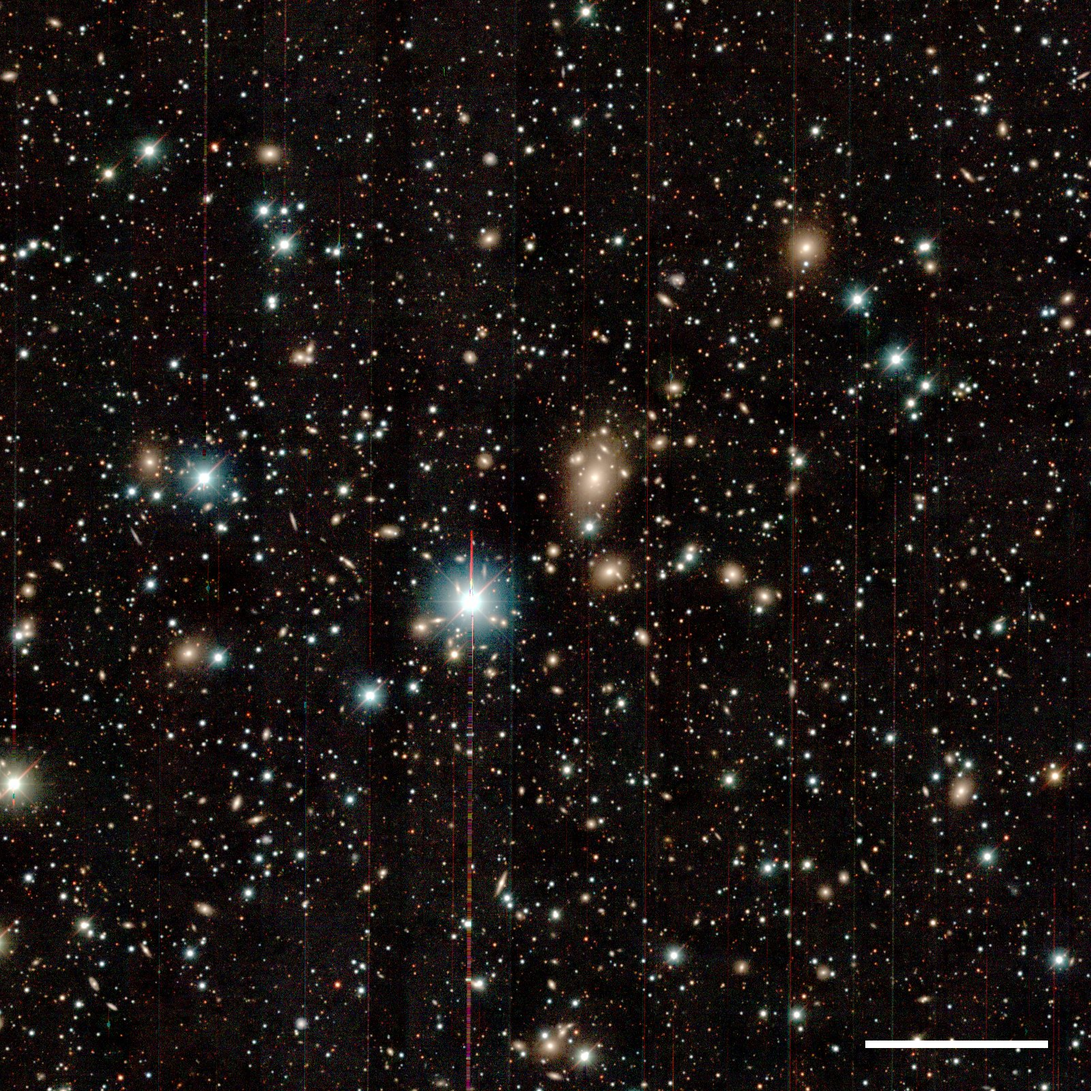
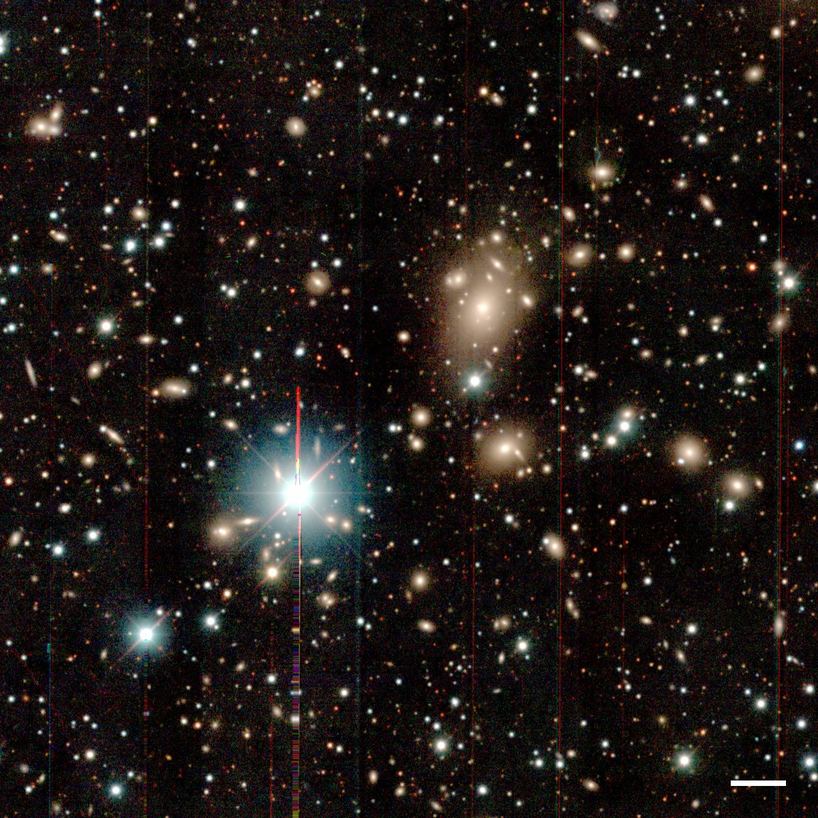
Update KS4 atlas pages

diff --git a/clusters.html b/clusters.html
@@ -272,38 +272,38 @@
     <p class="kicker"><a href="index.html">Home</a> / <a href="gallery.html">Gallery</a> / Galaxy clusters</p>
     <h1>Nearby galaxy clusters in KS4</h1>
     <p class="arp-intro">
-      This gallery shows nearby galaxy clusters south of declination −28° that fall inside the footprint of KS4 Data Release 1. Each image is centred on the brightest cluster galaxy or on the cluster position in SIMBAD. Click an image to see it larger. The name under each image opens the KS4 <i>BVI</i> colour HiPS in <a href="https://aladin.cds.unistra.fr/AladinLite/">Aladin Lite</a> so you can pan and zoom around it. The white bar in the lower-right corner of each image is five arcminutes.
+      This gallery shows nearby galaxy clusters south of declination −28° that fall inside the footprint of KS4 Data Release 1. Each image is centred on the brightest cluster galaxy or on the cluster position in SIMBAD. Click an image to see it larger. The name under each image opens the KS4 <i>BVI</i> colour HiPS in <a href="https://aladin.cds.unistra.fr/AladinLite/">Aladin Lite</a> so you can pan and zoom around it. The white bar in the lower-right corner of each image is one arcminute.
     </p>
     <p class="arp-meta">7 of the 11 clusters south of −28° are inside the KS4 DR1 footprint.</p>
 
     <div class="arp-grid">
       <figure>
-        <a class="thumb" href="assets/clusters/antlia.jpg"><img src="assets/clusters/antlia_t.jpg" width="300" height="300" loading="lazy" alt="Antlia cluster (NGC 3268) in KS4 BVI colour, 40 arcmin field, scale bar 5 arcmin"></a>
-        <figcaption><a href="https://aladin.cds.unistra.fr/AladinLite/?target=157.50275%20-35.32547&fov=1.333&survey=SNU%2FP%2FKS4%2FDR1%2FcolorBVI">Antlia cluster (NGC 3268)</a></figcaption>
+        <a class="thumb" href="assets/clusters/antlia.jpg"><img src="assets/clusters/antlia_t.jpg" width="300" height="300" loading="lazy" alt="Antlia cluster (NGC 3268) in KS4 BVI colour, 15 arcmin field, scale bar 1 arcmin"></a>
+        <figcaption><a href="https://aladin.cds.unistra.fr/AladinLite/?target=157.50275%20-35.32547&fov=0.500&survey=SNU%2FP%2FKS4%2FDR1%2FcolorBVI">Antlia cluster (NGC 3268)</a></figcaption>
       </figure>
       <figure>
-        <a class="thumb" href="assets/clusters/centaurus.jpg"><img src="assets/clusters/centaurus_t.jpg" width="300" height="300" loading="lazy" alt="Centaurus cluster (Abell 3526) in KS4 BVI colour, 40 arcmin field, scale bar 5 arcmin"></a>
-        <figcaption><a href="https://aladin.cds.unistra.fr/AladinLite/?target=192.20521%20-41.31083&fov=1.333&survey=SNU%2FP%2FKS4%2FDR1%2FcolorBVI">Centaurus cluster (Abell 3526)</a></figcaption>
+        <a class="thumb" href="assets/clusters/centaurus.jpg"><img src="assets/clusters/centaurus_t.jpg" width="300" height="300" loading="lazy" alt="Centaurus cluster (Abell 3526) in KS4 BVI colour, 15 arcmin field, scale bar 1 arcmin"></a>
+        <figcaption><a href="https://aladin.cds.unistra.fr/AladinLite/?target=192.20521%20-41.31083&fov=0.500&survey=SNU%2FP%2FKS4%2FDR1%2FcolorBVI">Centaurus cluster (Abell 3526)</a></figcaption>
       </figure>
       <figure>
-        <a class="thumb" href="assets/clusters/a3266.jpg"><img src="assets/clusters/a3266_t.jpg" width="300" height="300" loading="lazy" alt="Abell 3266 in KS4 BVI colour, 30 arcmin field, scale bar 5 arcmin"></a>
-        <figcaption><a href="https://aladin.cds.unistra.fr/AladinLite/?target=67.85980%20-61.42140&fov=1.000&survey=SNU%2FP%2FKS4%2FDR1%2FcolorBVI">Abell 3266</a></figcaption>
+        <a class="thumb" href="assets/clusters/a3266.jpg"><img src="assets/clusters/a3266_t.jpg" width="300" height="300" loading="lazy" alt="Abell 3266 in KS4 BVI colour, 15 arcmin field, scale bar 1 arcmin"></a>
+        <figcaption><a href="https://aladin.cds.unistra.fr/AladinLite/?target=67.85980%20-61.42140&fov=0.500&survey=SNU%2FP%2FKS4%2FDR1%2FcolorBVI">Abell 3266</a></figcaption>
       </figure>
       <figure>
-        <a class="thumb" href="assets/clusters/a3376.jpg"><img src="assets/clusters/a3376_t.jpg" width="300" height="300" loading="lazy" alt="Abell 3376 in KS4 BVI colour, 30 arcmin field, scale bar 5 arcmin"></a>
-        <figcaption><a href="https://aladin.cds.unistra.fr/AladinLite/?target=90.35420%20-39.99750&fov=1.000&survey=SNU%2FP%2FKS4%2FDR1%2FcolorBVI">Abell 3376</a></figcaption>
+        <a class="thumb" href="assets/clusters/a3376.jpg"><img src="assets/clusters/a3376_t.jpg" width="300" height="300" loading="lazy" alt="Abell 3376 in KS4 BVI colour, 15 arcmin field, scale bar 1 arcmin"></a>
+        <figcaption><a href="https://aladin.cds.unistra.fr/AladinLite/?target=90.35420%20-39.99750&fov=0.500&survey=SNU%2FP%2FKS4%2FDR1%2FcolorBVI">Abell 3376</a></figcaption>
       </figure>
       <figure>
-        <a class="thumb" href="assets/clusters/a3558.jpg"><img src="assets/clusters/a3558_t.jpg" width="300" height="300" loading="lazy" alt="Abell 3558 (Shapley Supercluster) in KS4 BVI colour, 30 arcmin field, scale bar 5 arcmin"></a>
-        <figcaption><a href="https://aladin.cds.unistra.fr/AladinLite/?target=202.01350%20-31.52650&fov=1.000&survey=SNU%2FP%2FKS4%2FDR1%2FcolorBVI">Abell 3558 (Shapley Supercluster)</a></figcaption>
+        <a class="thumb" href="assets/clusters/a3558.jpg"><img src="assets/clusters/a3558_t.jpg" width="300" height="300" loading="lazy" alt="Abell 3558 (Shapley Supercluster) in KS4 BVI colour, 15 arcmin field, scale bar 1 arcmin"></a>
+        <figcaption><a href="https://aladin.cds.unistra.fr/AladinLite/?target=202.01350%20-31.52650&fov=0.500&survey=SNU%2FP%2FKS4%2FDR1%2FcolorBVI">Abell 3558 (Shapley Supercluster)</a></figcaption>
       </figure>
       <figure>
-        <a class="thumb" href="assets/clusters/a3571.jpg"><img src="assets/clusters/a3571_t.jpg" width="300" height="300" loading="lazy" alt="Abell 3571 in KS4 BVI colour, 30 arcmin field, scale bar 5 arcmin"></a>
-        <figcaption><a href="https://aladin.cds.unistra.fr/AladinLite/?target=206.88480%20-32.83670&fov=1.000&survey=SNU%2FP%2FKS4%2FDR1%2FcolorBVI">Abell 3571</a></figcaption>
+        <a class="thumb" href="assets/clusters/a3571.jpg"><img src="assets/clusters/a3571_t.jpg" width="300" height="300" loading="lazy" alt="Abell 3571 in KS4 BVI colour, 15 arcmin field, scale bar 1 arcmin"></a>
+        <figcaption><a href="https://aladin.cds.unistra.fr/AladinLite/?target=206.88480%20-32.83670&fov=0.500&survey=SNU%2FP%2FKS4%2FDR1%2FcolorBVI">Abell 3571</a></figcaption>
       </figure>
       <figure>
-        <a class="thumb" href="assets/clusters/a3667.jpg"><img src="assets/clusters/a3667_t.jpg" width="300" height="300" loading="lazy" alt="Abell 3667 in KS4 BVI colour, 30 arcmin field, scale bar 5 arcmin"></a>
-        <figcaption><a href="https://aladin.cds.unistra.fr/AladinLite/?target=303.14030%20-56.84060&fov=1.000&survey=SNU%2FP%2FKS4%2FDR1%2FcolorBVI">Abell 3667</a></figcaption>
+        <a class="thumb" href="assets/clusters/a3667.jpg"><img src="assets/clusters/a3667_t.jpg" width="300" height="300" loading="lazy" alt="Abell 3667 in KS4 BVI colour, 15 arcmin field, scale bar 1 arcmin"></a>
+        <figcaption><a href="https://aladin.cds.unistra.fr/AladinLite/?target=303.14030%20-56.84060&fov=0.500&survey=SNU%2FP%2FKS4%2FDR1%2FcolorBVI">Abell 3667</a></figcaption>
       </figure>
     </div>
 

diff --git a/peculiar.html b/peculiar.html
@@ -272,9 +272,9 @@
     <p class="kicker"><a href="index.html">Home</a> / <a href="gallery.html">Gallery</a> / Southern peculiar galaxies</p>
     <h1>Southern peculiar galaxies in KS4</h1>
     <p class="arp-intro">
-      This gallery shows peculiar and interacting galaxies and a few other well-known objects, such as globular clusters and planetary nebulae, that lie south of declination −28° and fall inside the footprint of KS4 Data Release 1. The order changes each time the page is opened. Click an image to see it larger. The name under each image opens the KS4 <i>BVI</i> colour HiPS in <a href="https://aladin.cds.unistra.fr/AladinLite/">Aladin Lite</a> so you can pan and zoom around it. The white bar in the lower-right corner of each image is one arcminute, or five arcminutes on fields of 25 arcminutes or more.
+      This gallery shows peculiar and interacting galaxies, nearby spiral galaxies from the <a href="https://sites.google.com/view/phangs/home">PHANGS</a>-MUSE and PHANGS-JWST samples and a few other well-known objects, such as globular clusters and planetary nebulae, that lie south of declination −28° and fall inside the footprint of KS4 Data Release 1. The order changes each time the page is opened. Click an image to see it larger. The name under each image opens the KS4 <i>BVI</i> colour HiPS in <a href="https://aladin.cds.unistra.fr/AladinLite/">Aladin Lite</a> so you can pan and zoom around it. The white bar in the lower-right corner of each image is one arcminute, or five arcminutes on fields of 25 arcminutes or more.
     </p>
-    <p class="arp-meta">12 of the 38 objects in the list are inside the KS4 DR1 footprint.</p>
+    <p class="arp-meta">13 of the 43 objects in the list are inside the KS4 DR1 footprint.</p>
 
     <div class="arp-grid" data-shuffle>
       <figure>
@@ -325,10 +325,14 @@
         <a class="thumb" href="assets/peculiar/ngc362.jpg"><img src="assets/peculiar/ngc362_t.jpg" width="300" height="300" loading="lazy" alt="NGC 362 in KS4 BVI colour, 15 arcmin field, scale bar 1 arcmin"></a>
         <figcaption><a href="https://aladin.cds.unistra.fr/AladinLite/?target=15.80942%20-70.84878&fov=0.500&survey=SNU%2FP%2FKS4%2FDR1%2FcolorBVI">NGC 362</a></figcaption>
       </figure>
+      <figure>
+        <a class="thumb" href="assets/peculiar/ic5332.jpg"><img src="assets/peculiar/ic5332_t.jpg" width="300" height="300" loading="lazy" alt="IC 5332 in KS4 BVI colour, 11 arcmin field, scale bar 1 arcmin"></a>
+        <figcaption><a href="https://aladin.cds.unistra.fr/AladinLite/?target=353.61454%20-36.10108&fov=0.367&survey=SNU%2FP%2FKS4%2FDR1%2FcolorBVI">IC 5332</a></figcaption>
+      </figure>
     </div>
 
     <p class="gallery-credit">
-      Images: KMTNet Synoptic Survey of Southern Sky (KS4) DR1, <i>BVI</i> colour HiPS (Chang et al. 2026, JKAS). Positions from SIMBAD.
+      Images: KMTNet Synoptic Survey of Southern Sky (KS4) DR1, <i>BVI</i> colour HiPS (Chang et al. 2026, JKAS). Positions from SIMBAD and <a href="https://github.com/mattiaverga/OpenNGC">OpenNGC</a> (CC BY-SA 4.0).
     </p>
     <p class="back"><a href="gallery.html">← Back to the gallery</a></p>
   </section>

diff --git a/gallery.html b/gallery.html
@@ -330,7 +330,7 @@
       <a class="atlas-card" href="peculiar.html">
         <img src="assets/peculiar/ngc5128_t.jpg" width="300" height="300" loading="lazy" alt="">
         <span class="atlas-name">Southern peculiar galaxies</span>
-        <span class="atlas-n">12 images</span>
+        <span class="atlas-n">13 images</span>
       </a>
       <a class="atlas-card" href="ngc.html">
         <img src="assets/ngc/ngc0406_t.jpg" width="300" height="300" loading="lazy" alt="">
